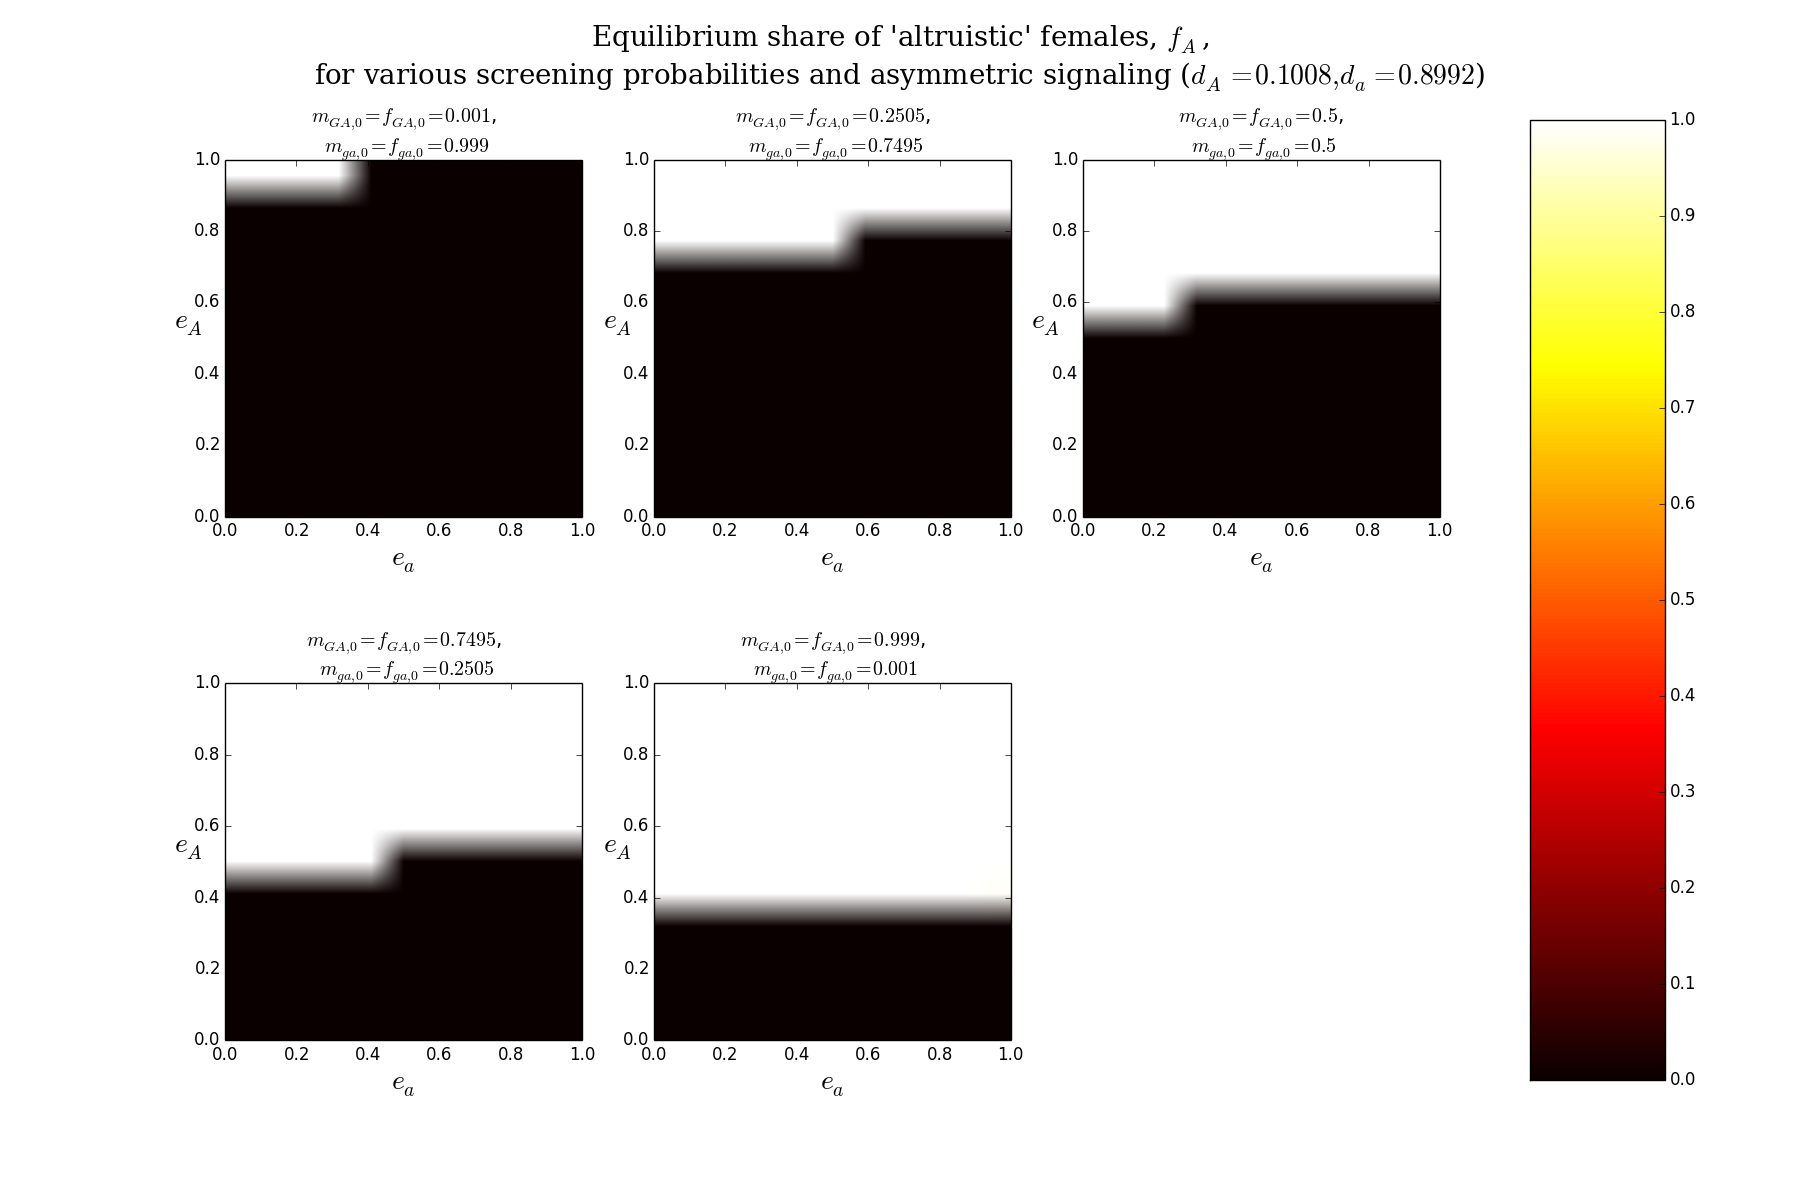
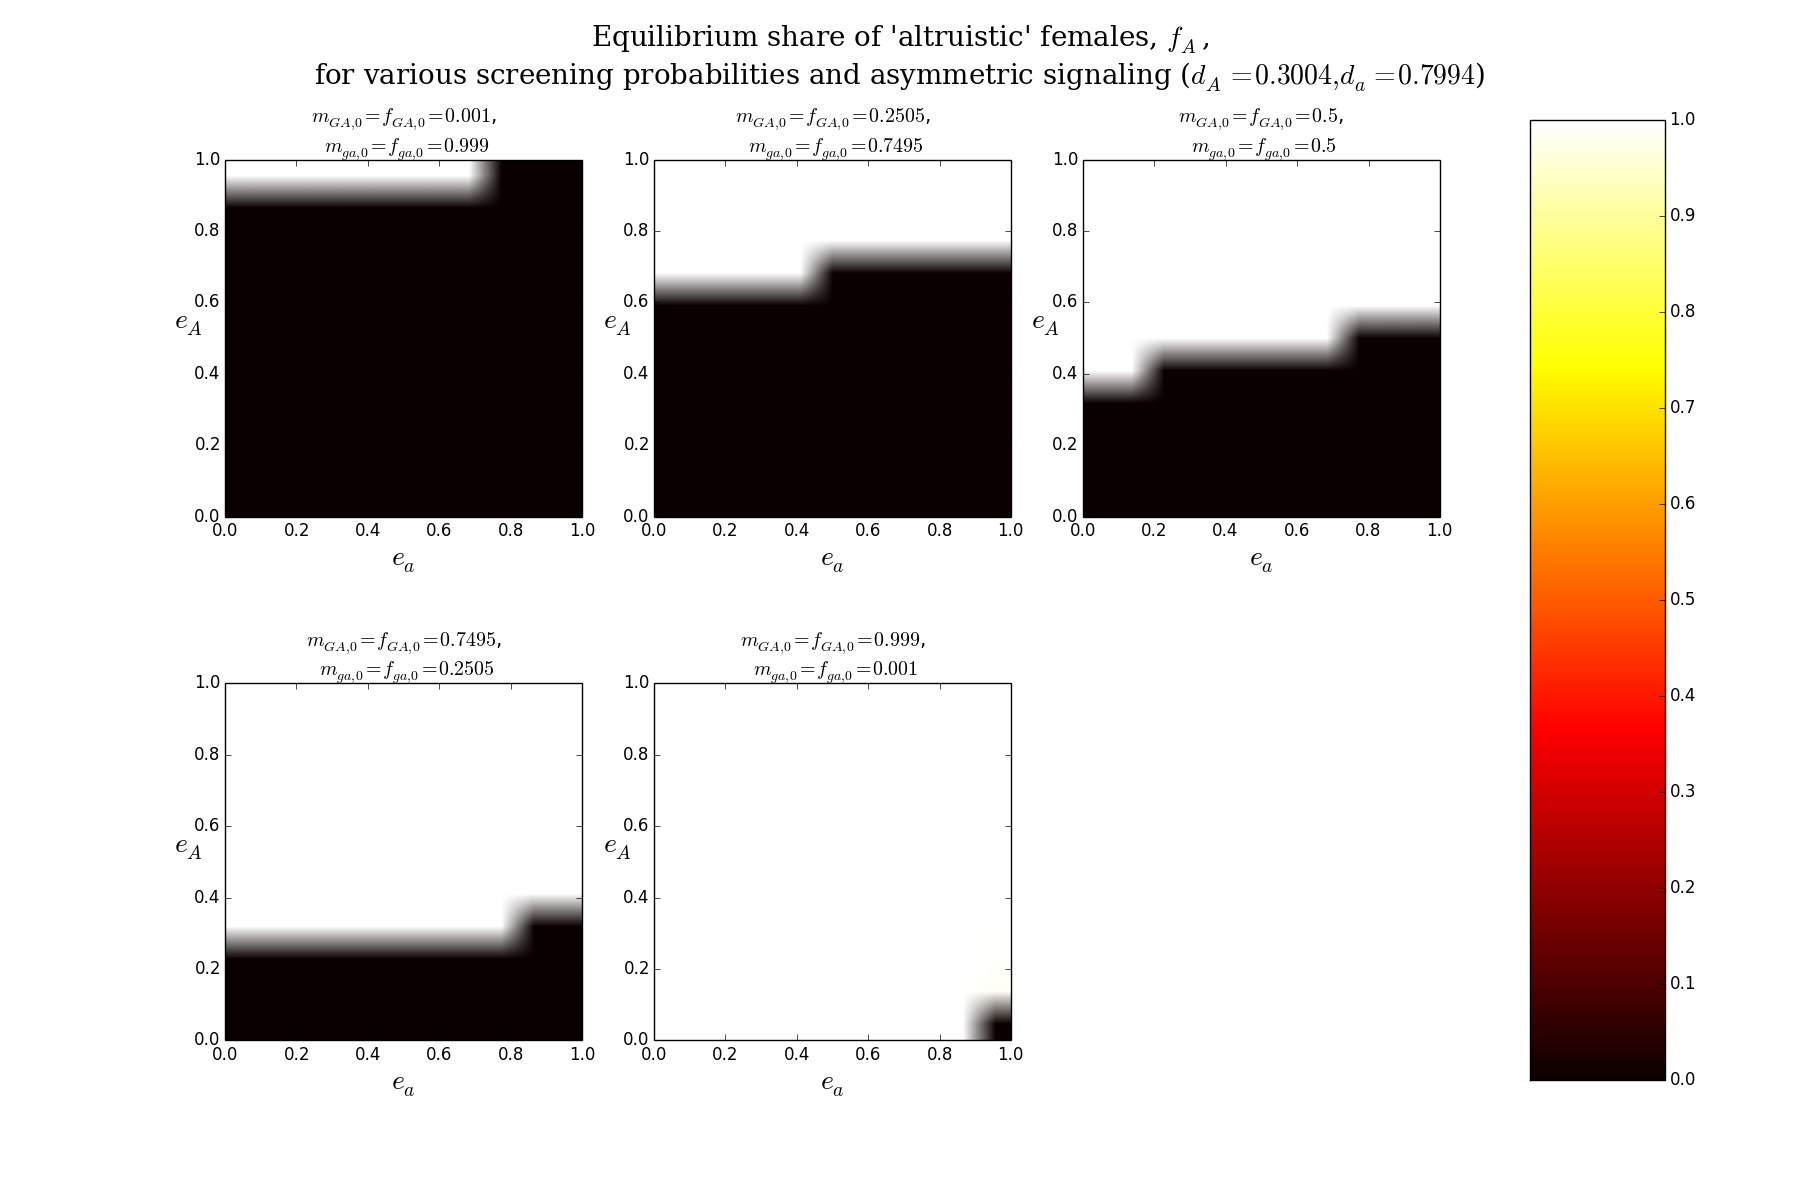
Fixed the index for plots.

diff --git a/examples/parameter-sweeps/screening_param_sweep_plots.py b/examples/parameter-sweeps/screening_param_sweep_plots.py
@@ -52,7 +52,8 @@ fig = plt.figure(figsize=(18, 12))
 
 for i, initial_condition in enumerate(initial_conditions):
 
-    imperfect_signaling = results[1, 1, :, :, i]
+    idx = np.searchsorted(signaling_probs, 0.25)
+    imperfect_signaling = results[idx, idx, :, :, i]
     female_altruists = imperfect_signaling[:, :, 4:7:2].sum(axis=-1)
 
     # plot the equilibrium proportion of female altruists
@@ -70,7 +71,7 @@ for i, initial_condition in enumerate(initial_conditions):
 
 fig_title = ("Equilibrium share of 'altruistic' females, $f_A$,\n" +
              "for various screening probabilities and imperfect signaling ($d_A=d_a={}$)")
-fig.suptitle(fig_title.format(signaling_probs[1]), fontsize=20, family='serif')
+fig.suptitle(fig_title.format(signaling_probs[idx]), fontsize=20, family='serif')
 
 # add a color bar
 fig.subplots_adjust(right=0.8)
@@ -121,7 +122,8 @@ fig = plt.figure(figsize=(18, 12))
 
 for i, initial_condition in enumerate(initial_conditions):
 
-    imperfect_signaling = results[-2, -2, :, :, i]
+    idx = np.searchsorted(signaling_probs, 0.75)
+    imperfect_signaling = results[idx, idx, :, :, i]
     female_altruists = imperfect_signaling[:, :, 4:7:2].sum(axis=-1)
 
     # plot the equilibrium proportion of female altruists
@@ -139,7 +141,7 @@ for i, initial_condition in enumerate(initial_conditions):
 
 fig_title = ("Equilibrium share of 'altruistic' females, $f_A$,\n" +
              "for various screening probabilities and imperfect signaling ($d_A=d_a={}$)")
-fig.suptitle(fig_title.format(signaling_probs[-2]), fontsize=20, family='serif')
+fig.suptitle(fig_title.format(signaling_probs[idx]), fontsize=20, family='serif')
 
 # add a color bar
 fig.subplots_adjust(right=0.8)
@@ -189,7 +191,9 @@ fig = plt.figure(figsize=(18, 12))
 
 for i, initial_condition in enumerate(initial_conditions):
 
-    asymmetric_signaling = results[-2, 1, :, :, i]
+    lower_idx = np.searchsorted(signaling_probs, 0.25)
+    upper_idx = np.searchsorted(signaling_probs, 0.75)
+    asymmetric_signaling = results[upper_idx, lower_idx, :, :, i]
     female_altruists = asymmetric_signaling[:, :, 4:7:2].sum(axis=-1)
 
     # plot the equilibrium proportion of female altruists
@@ -207,7 +211,7 @@ for i, initial_condition in enumerate(initial_conditions):
 
 fig_title = ("Equilibrium share of 'altruistic' females, $f_A$,\n" +
              "for various screening probabilities and asymmetric signaling ($d_A={}, d_a={}$)")
-fig.suptitle(fig_title.format(signaling_probs[-2], signaling_probs[1]),
+fig.suptitle(fig_title.format(signaling_probs[upper_idx], signaling_probs[lower_idx]),
              fontsize=20, family='serif')
 
 # add a color bar
@@ -224,7 +228,9 @@ fig = plt.figure(figsize=(18, 12))
 
 for i, initial_condition in enumerate(initial_conditions):
 
-    asymmetric_signaling = results[1, -2, :, :, i]
+    lower_idx = np.searchsorted(signaling_probs, 0.25)
+    upper_idx = np.searchsorted(signaling_probs, 0.75)
+    asymmetric_signaling = results[lower_idx, upper_idx, :, :, i]
     female_altruists = asymmetric_signaling[:, :, 4:7:2].sum(axis=-1)
 
     # plot the equilibrium proportion of female altruists
@@ -242,7 +248,7 @@ for i, initial_condition in enumerate(initial_conditions):
 
 fig_title = ("Equilibrium share of 'altruistic' females, $f_A$,\n" +
              "for various screening probabilities and asymmetric signaling ($d_A={}, d_a={}$)")
-fig.suptitle(fig_title.format(signaling_probs[1], signaling_probs[-2]),
+fig.suptitle(fig_title.format(signaling_probs[lower_idx], signaling_probs[upper_idx]),
              fontsize=20, family='serif')
 
 # add a color bar

diff --git a/examples/parameter-sweeps/signaling_param_sweep_plots.py b/examples/parameter-sweeps/signaling_param_sweep_plots.py
@@ -53,7 +53,8 @@ fig = plt.figure(figsize=(18, 12))
 
 for i, initial_condition in enumerate(initial_conditions):
 
-    imperfect_screening = results[:, :, 1, 1, i]
+    idx = np.searchsorted(screening_probs, 0.25)
+    imperfect_screening = results[:, :, idx, idx, i]
     female_altruists = imperfect_screening[:, :, 4:7:2].sum(axis=-1)
 
     # plot the equilibrium proportion of female altruists
@@ -71,7 +72,7 @@ for i, initial_condition in enumerate(initial_conditions):
 
 fig_title = ("Equilibrium share of 'altruistic' females, $f_A$,\n" +
              "for various signaling probabilities and imperfect screening ($e_A=e_a={}$)")
-fig.suptitle(fig_title.format(screening_probs[1]), fontsize=20, family='serif')
+fig.suptitle(fig_title.format(screening_probs[idx]), fontsize=20, family='serif')
 
 # add a color bar
 fig.subplots_adjust(right=0.8)
@@ -122,7 +123,8 @@ fig = plt.figure(figsize=(18, 12))
 
 for i, initial_condition in enumerate(initial_conditions):
 
-    imperfect_screening = results[:, :, -2, -2, i]
+    idx = np.searchsorted(screening_probs, 0.75)
+    imperfect_screening = results[:, :, idx, idx, i]
     female_altruists = imperfect_screening[:, :, 4:7:2].sum(axis=-1)
 
     # plot the equilibrium proportion of female altruists
@@ -140,7 +142,7 @@ for i, initial_condition in enumerate(initial_conditions):
 
 fig_title = ("Equilibrium share of 'altruistic' females, $f_A$,\n" +
              "for various signaling probabilities and imperfect screening ($e_A=e_a={}$)")
-fig.suptitle(fig_title.format(screening_probs[-2]), fontsize=20, family='serif')
+fig.suptitle(fig_title.format(screening_probs[idx]), fontsize=20, family='serif')
 
 # add a color bar
 fig.subplots_adjust(right=0.8)
@@ -190,7 +192,9 @@ fig = plt.figure(figsize=(18, 12))
 
 for i, initial_condition in enumerate(initial_conditions):
 
-    asymmetric_screening = results[:, :, -2, 1, i]
+    lower_idx = np.searchsorted(screening_probs, 0.25)
+    upper_idx = np.searchsorted(screening_probs, 0.75)
+    asymmetric_screening = results[:, :, upper_idx, lower_idx, i]
     female_altruists = asymmetric_screening[:, :, 4:7:2].sum(axis=-1)
 
     # plot the equilibrium proportion of female altruists
@@ -208,7 +212,7 @@ for i, initial_condition in enumerate(initial_conditions):
 
 fig_title = ("Equilibrium share of 'altruistic' females, $f_A$,\n" +
              "for various signaling probabilities and asymmetric screening ($e_A={}, e_a={}$)")
-fig.suptitle(fig_title.format(screening_probs[-2], screening_probs[1]),
+fig.suptitle(fig_title.format(screening_probs[upper_idx], screening_probs[lower_idx]),
              fontsize=20, family='serif')
 
 # add a color bar
@@ -225,7 +229,9 @@ fig = plt.figure(figsize=(18, 12))
 
 for i, initial_condition in enumerate(initial_conditions):
 
-    asymmetric_screening = results[:, :, 1, -2, i]
+    lower_idx = np.searchsorted(screening_probs, 0.25)
+    upper_idx = np.searchsorted(screening_probs, 0.75)
+    asymmetric_screening = results[:, :, lower_idx, upper_idx, i]
     female_altruists = asymmetric_screening[:, :, 4:7:2].sum(axis=-1)
 
     # plot the equilibrium proportion of female altruists
@@ -243,7 +249,7 @@ for i, initial_condition in enumerate(initial_conditions):
 
 fig_title = ("Equilibrium share of 'altruistic' females, $f_A$,\n" +
              "for various signaling probabilities and asymmetric screening ($e_A={}, e_a={}$)")
-fig.suptitle(fig_title.format(screening_probs[1], screening_probs[-2]),
+fig.suptitle(fig_title.format(screening_probs[lower_idx], screening_probs[upper_idx]),
              fontsize=20, family='serif')
 
 # add a color bar
